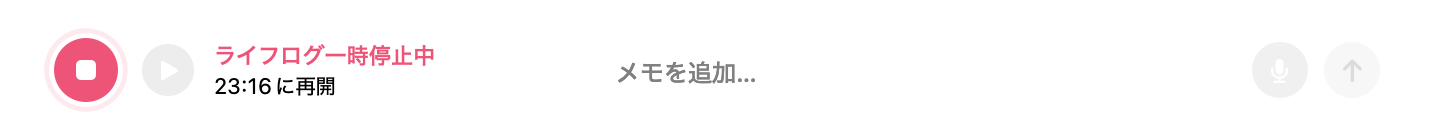
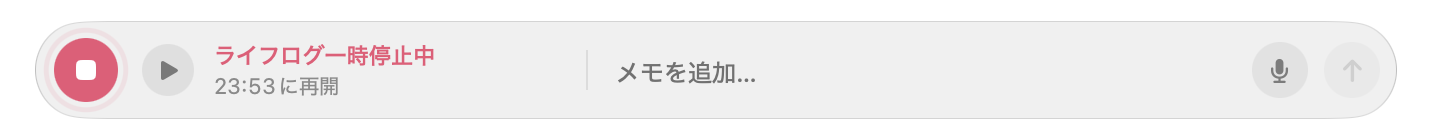
chore(site): drop the locked-screen workaround, keep the real-capture figures
Regenerated event-notes.png and paused.png with make lp-media on an unlocked
screen and removed the --lore-snapshot-offscreen flag and LORE_LP_STILLS_ONLY.

diff --git a/Sources/LoreKit/UI/DebugSnapshotter.swift b/Sources/LoreKit/UI/DebugSnapshotter.swift
@@ -245,48 +245,10 @@ enum DebugSnapshotter {
         do { try await Task.sleep(for: .seconds(seconds)) } catch {}
     }
 
-    /// `--lore-snapshot-offscreen`: ScreenCaptureKitは画面ロック中は始められないため、viewを自分で描いて保存する。
-    /// windowの枠は含まれない。
-    private static func drawOffscreen(_ window: NSWindow, as name: String, into directory: URL) throws {
-        guard let view = window.contentView, let rep = view.bitmapImageRepForCachingDisplay(in: view.bounds) else {
-            throw CocoaError(.fileWriteUnknown, userInfo: [NSLocalizedDescriptionKey: "\(name)の描画先を作れません"])
-        }
-        view.cacheDisplay(in: view.bounds, to: rep)
-        // The window's own background is not part of the view, so the render is transparent. Put it on the content color.
-        guard let flat = NSBitmapImageRep(
-            bitmapDataPlanes: nil, pixelsWide: rep.pixelsWide, pixelsHigh: rep.pixelsHigh,
-            bitsPerSample: 8, samplesPerPixel: 4, hasAlpha: true, isPlanar: false,
-            colorSpaceName: .deviceRGB, bytesPerRow: 0, bitsPerPixel: 0
-        ), let context = NSGraphicsContext(bitmapImageRep: flat) else {
-            throw CocoaError(.fileWriteUnknown, userInfo: [NSLocalizedDescriptionKey: "\(name)の描画先を作れません"])
-        }
-        NSGraphicsContext.saveGraphicsState()
-        NSGraphicsContext.current = context
-        window.effectiveAppearance.performAsCurrentDrawingAppearance {
-            NSColor.textBackgroundColor.setFill()
-            NSRect(x: 0, y: 0, width: rep.pixelsWide, height: rep.pixelsHigh).fill()
-        }
-        guard let rendered = rep.cgImage else {
-            NSGraphicsContext.restoreGraphicsState()
-            throw CocoaError(.fileWriteUnknown, userInfo: [NSLocalizedDescriptionKey: "\(name)の描画結果を取り出せません"])
-        }
-        context.cgContext.draw(rendered, in: CGRect(origin: .zero, size: CGSize(width: rep.pixelsWide, height: rep.pixelsHigh)))
-        NSGraphicsContext.restoreGraphicsState()
-        flat.size = view.bounds.size
-        guard let data = flat.representation(using: .png, properties: [:]) else {
-            throw CocoaError(.fileWriteUnknown, userInfo: [NSLocalizedDescriptionKey: "\(name)をPNGへ変換できません"])
-        }
-        try data.write(to: directory.appending(path: "\(name).png"))
-    }
-
     /// 自process内のwindowだけを対象にするため、画面収録の権限を要求しない。
     private static func capture(_ identifier: String, as name: String, into directory: URL) async throws {
         guard let window = NSApp.windows.first(where: { $0.identifier?.rawValue == identifier && $0.isVisible }) else {
             throw CocoaError(.fileWriteUnknown, userInfo: [NSLocalizedDescriptionKey: "\(identifier) windowが表示されていません"])
-        }
-        if ProcessInfo.processInfo.arguments.contains("--lore-snapshot-offscreen") {
-            try drawOffscreen(window, as: name, into: directory)
-            return
         }
         let content = try await SCShareableContent.currentProcess
         guard let target = content.windows.first(where: { $0.windowID == CGWindowID(window.windowNumber) }) else {

diff --git a/docs/testing.md b/docs/testing.md
@@ -65,7 +65,7 @@ make ui-test
 
 ## Checking the look
 
-Launching the debug build of `LoreUITests.app` with `--lore-screenshot-demo --lore-snapshot <dir>` opens the main window (Life Log and Dictation), every settings section, and the mini window in turn and saves each window to `<dir>` as PNG. It then saves each stage of the HUD on a wallpaper-like background (recording start, streaming text, formatting, done, formatting skipped), the menu bar panel, and the menu bar icon in every state on light and dark menu bars (`menu-bar-icons.png`), and quits. It captures only the windows of its own process with ScreenCaptureKit, so it needs no Screen Recording permission. Adding `--lore-screenshot-onboarding` shows onboarding as on a first launch instead and saves each step (`onboarding-welcome`, `onboarding-try`, `onboarding-try-done` with a sample recognized and formatted text, and `onboarding-ready`). The flag also marks onboarding as not done at launch, and with demo data also the Life Log audio consent, so the UI E2E can finish both from a first-launch state. Without `--lore-screenshot-demo`, a debug `Lore.app` launched with only `--lore-screenshot-onboarding` shows onboarding on the real database with the real hotkey, which is how to try the try-dictation step by hand. Adding `--lore-snapshot-appearance dark` (or `light`) fixes the appearance. Adding `--lore-snapshot-offscreen` draws each window's view hierarchy instead of capturing it, so it also works while the screen is locked. The render has no window frame or materials (the sidebar and the menu bar panel come out blank) and ignores the dark appearance, so use it only for light stills of the timeline and the record bar. The last capture is `main-life-log-paused`, the main window with the Life Log paused for 30 minutes. None of this is in release builds.
+Launching the debug build of `LoreUITests.app` with `--lore-screenshot-demo --lore-snapshot <dir>` opens the main window (Life Log and Dictation), every settings section, and the mini window in turn and saves each window to `<dir>` as PNG. It then saves each stage of the HUD on a wallpaper-like background (recording start, streaming text, formatting, done, formatting skipped), the menu bar panel, and the menu bar icon in every state on light and dark menu bars (`menu-bar-icons.png`), and quits. It captures only the windows of its own process with ScreenCaptureKit, so it needs no Screen Recording permission. Adding `--lore-screenshot-onboarding` shows onboarding as on a first launch instead and saves each step (`onboarding-welcome`, `onboarding-try`, `onboarding-try-done` with a sample recognized and formatted text, and `onboarding-ready`). The flag also marks onboarding as not done at launch, and with demo data also the Life Log audio consent, so the UI E2E can finish both from a first-launch state. Without `--lore-screenshot-demo`, a debug `Lore.app` launched with only `--lore-screenshot-onboarding` shows onboarding on the real database with the real hotkey, which is how to try the try-dictation step by hand. Adding `--lore-snapshot-appearance dark` (or `light`) fixes the appearance. The last capture is `main-life-log-paused`, the main window with the Life Log paused for 30 minutes. None of this is in release builds.
 
 ```sh
 make ui-test-app
@@ -74,4 +74,4 @@ open -n -W build/LoreUITests.app --args --lore-screenshot-demo --lore-snapshot /
 
 Adding `--lore-demo-language en|ja|zh-Hans` switches the display language and the demo data text to that language (the default is Japanese). `--lore-record <dir>` records instead of taking screenshots. It plays a fixed script for dictation (until polished text lands in a message field) and for the Life Log (until spoken sentences line up on the timeline) and records only the windows of its own process as mp4. The script adds utterances to the demo database, so it launches only together with `--lore-screenshot-demo`.
 
-`make lp-media` regenerates the landing page (`site/`) screenshots and videos per language into `site/assets/<language>/`. A recorded video contains the recording indicator that the system draws at the traffic light position, so `Scripts/patch-recording.swift` covers it with a still of the same window before downscaling. ScreenCaptureKit cannot start capturing while the screen is locked, so unlock the screen before running it. `LORE_LP_STILLS_ONLY=1 make lp-media` skips that check and writes only `event-notes.png` and `paused.png` (light crops of the demo note under its event, and of the paused record bar) with `--lore-snapshot-offscreen`, leaving the videos and the other images as they are.
+`make lp-media` regenerates the landing page (`site/`) screenshots and videos per language into `site/assets/<language>/`. A recorded video contains the recording indicator that the system draws at the traffic light position, so `Scripts/patch-recording.swift` covers it with a still of the same window before downscaling. ScreenCaptureKit cannot start capturing while the screen is locked, so unlock the screen before running it. It also crops `event-notes.png` (the demo note under its event) and `paused.png` (the paused record bar) from the light main window captures.
